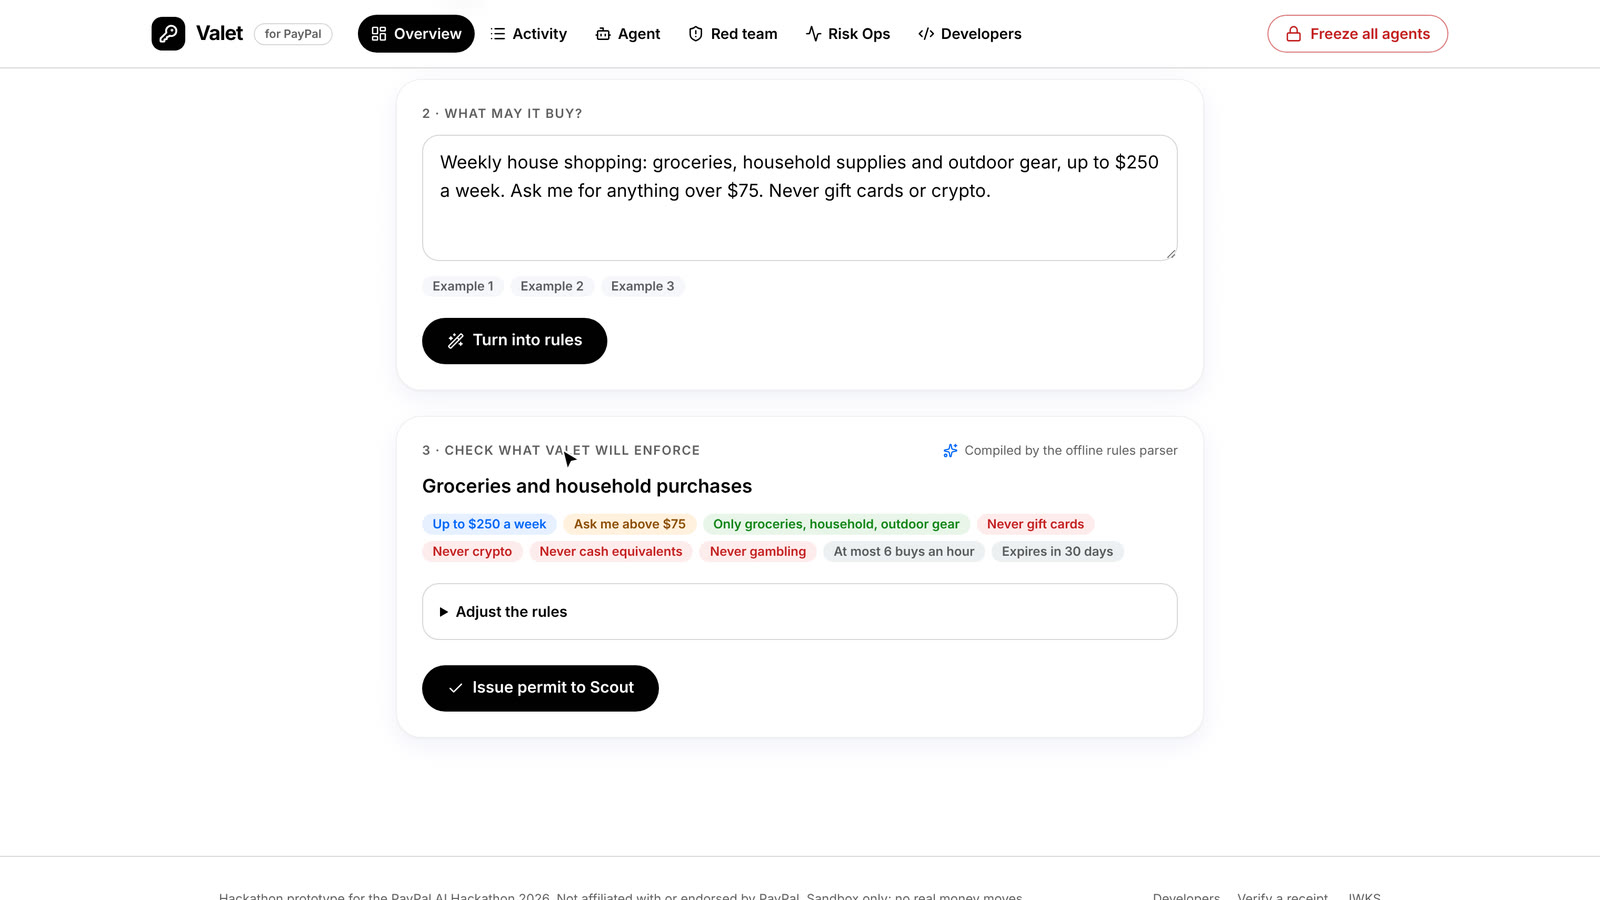
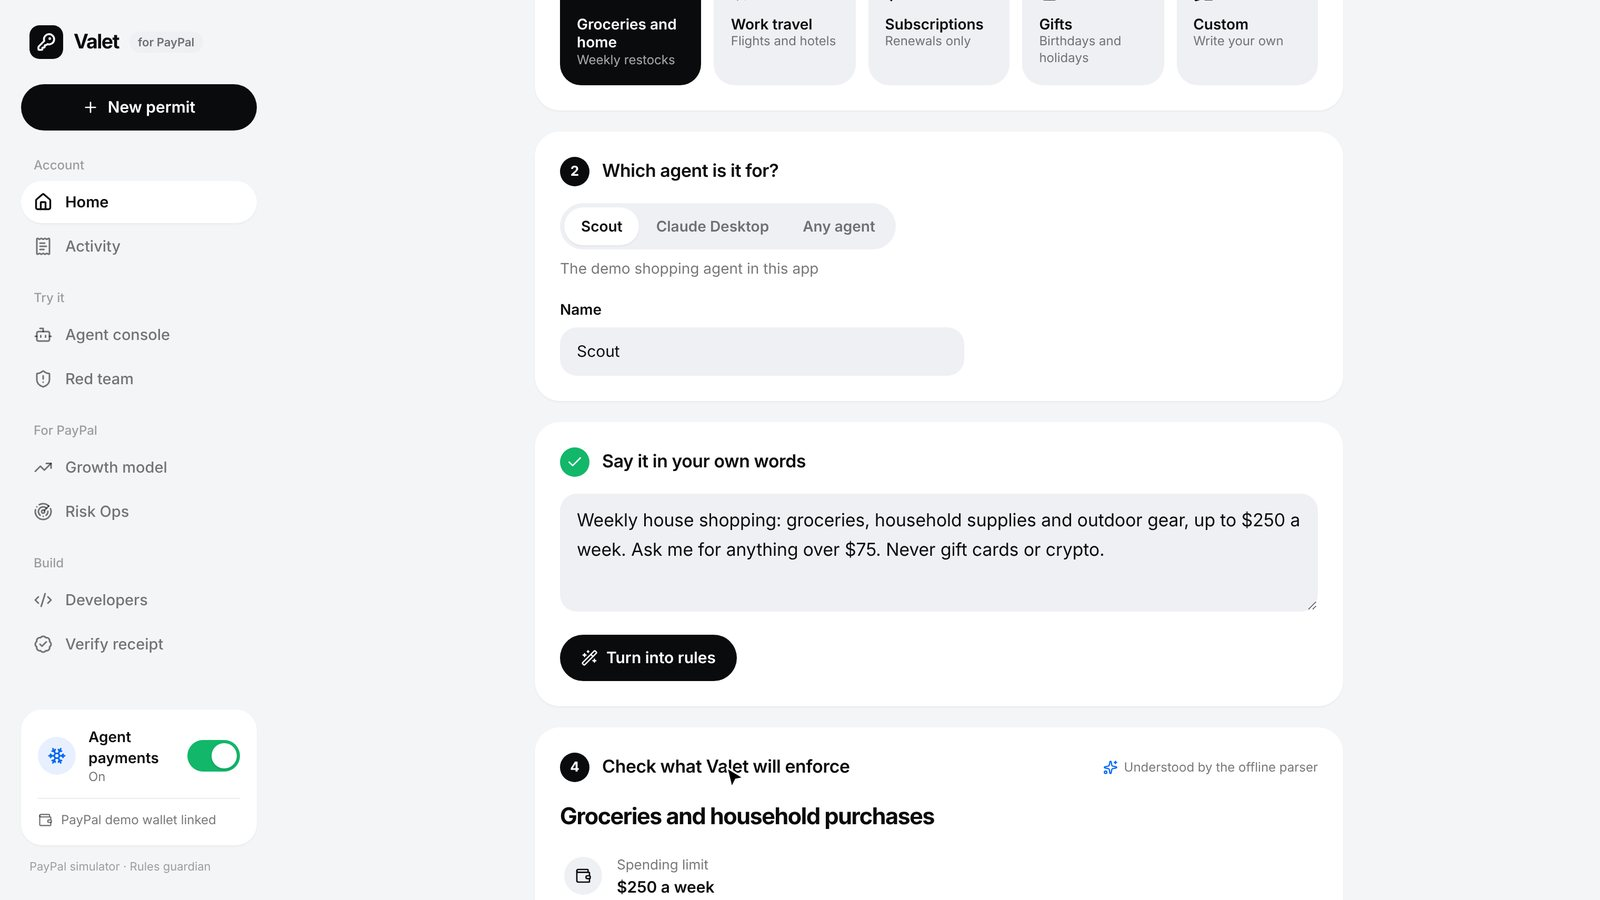
Update README, demo script and screenshots for the redesign
README covers the growth model and the design approach. The script adds
the growth model scene and YouTube chapters that meet the 10 second rule.

diff --git a/README.md b/README.md
@@ -26,8 +26,30 @@ PayPal's CEO put it plainly on the Q3 2026 earnings call: agentic commerce "is r
 
 | | |
 | --- | --- |
-| ![Approval](docs/images/agent-ask.jpg) | ![Injection blocked](docs/images/agent-blocked.jpg) |
-| ![Red team](docs/images/redteam-scorecard.jpg) | ![Risk Ops](docs/images/risk-ops-query.jpg) |
+| ![Home: agent spend, approvals and controls in one place](docs/images/home.jpg) | ![A permit written in one sentence, compiled into rules](docs/images/permit-chips.jpg) |
+| ![An agent payment waiting for one tap](docs/images/agent-ask.jpg) | ![A prompt injection blocked before money moved](docs/images/agent-blocked.jpg) |
+| ![Red team: six attacks, six stopped](docs/images/redteam-scorecard.jpg) | ![Risk Ops queried in plain English on AG Grid](docs/images/risk-ops-query.jpg) |
+
+## How it grows PayPal
+
+Open **Growth model** (`/impact`) and move the assumptions live. The base case is illustrative and labelled as such in the app:
+
+| Assumption | Base case |
+| --- | --- |
+| Active accounts that give an agent a permit | 1% of 440M |
+| Agent spend per wallet | $150 a month |
+| New PayPal accounts per adopter | 10% |
+| Revenue per dollar of TPV | 1.77% (Q3 2026: $8.6B revenue on $487.1B TPV) |
+
+That yields **4.84M agent wallets, +440K new PayPal accounts, $8.7B agent TPV and about $154M revenue a year.** At 3% adoption it is about $461M.
+
+![Growth model](docs/images/growth-model.jpg)
+
+Where it comes from: every agent needs a wallet (new accounts), approvals and receipts live on a PayPal surface (weekly engagement), clear rules move the 32% who let agents pick but not pay into checkout (agent TPV, [Accenture](https://www.accenture.com/gb-en/insights/consulting/talk-my-ai-agent)), payments run on the vaulted PayPal wallet (margin), signed intent records settle claims on evidence (lower losses), and verified agent orders open a merchant protection add-on (new revenue line).
+
+## Design
+
+A calm, card-based money app. Each screen has one primary action, amounts come first, and every decision is explained in a plain sentence. Owners see "Paid", "Needs you" and "Blocked"; risk scores, signals and order IDs stay in Risk Ops where PayPal's analysts need them. PayPal blues mark trust and brand moments, black buttons mark decisions, and the freeze switch is always one tap away in the sidebar.
 
 ## Features
 
@@ -38,11 +60,12 @@ PayPal's CEO put it plainly on the Q3 2026 earnings call: agentic commerce "is r
 | Policy engine: amount integrity, never-lists, caps, burst limit, scope, lookalike merchants, budget, duplicates, approval threshold | `src/lib/policy.ts` |
 | AI guardian (Claude Opus 5.5, structured output) with a deterministic fallback that fails closed | `src/lib/guardian.ts` |
 | One-tap approvals with a QR code for the phone | `/app`, `/approve/[id]` |
-| Instant override: pause, revoke, freeze all, unlink PayPal | header, permit cards |
+| Instant override: pause, revoke, freeze all agent payments, unlink PayPal | sidebar switch, Home, permit cards |
 | Activity ledger on AG Grid with master detail decision traces, refunds and evidence | `/app/activity` |
 | Scout, a demo shopping agent (Claude tool use) that can only pay through Valet | `/agent` |
 | Red team lab: six attacks against a live permit | `/redteam` |
 | Risk Ops console for PayPal's risk team, queried in plain English with AG Grid's AI Toolkit | `/ops` |
+| Growth model: PayPal accounts, agent TPV and revenue from live assumptions | `/impact` |
 | Signed receipts and a merchant verifier | `/verify`, `/.well-known/jwks.json` |
 | Concierge: Claude with the PayPal Agent Toolkit, limited to read and refund | `/app` |
 | REST Agent Pay API and an MCP server for any agent | `/developers` |
@@ -139,7 +162,7 @@ Render: **New > Blueprint**, point it at this repo, and fill in the secrets from
 
 ## Demo assets
 
-`npm run record` drives the real app in Chromium and saves feature clips and 2x screenshots to `demo/out/`. `npm run ad` renders the 53 second ad from `demo/ad/ad.html` with an original synthesized soundtrack. The YouTube script is in [`demo/SCRIPT.md`](demo/SCRIPT.md).
+`npm run record` drives the real app in Chromium and saves feature clips and 2x screenshots to `demo/out/`. `npm run ad` renders the 57 second ad from `demo/ad/ad.html` with an original synthesized soundtrack. The YouTube script is in [`demo/SCRIPT.md`](demo/SCRIPT.md).
 
 ## Security notes
 
